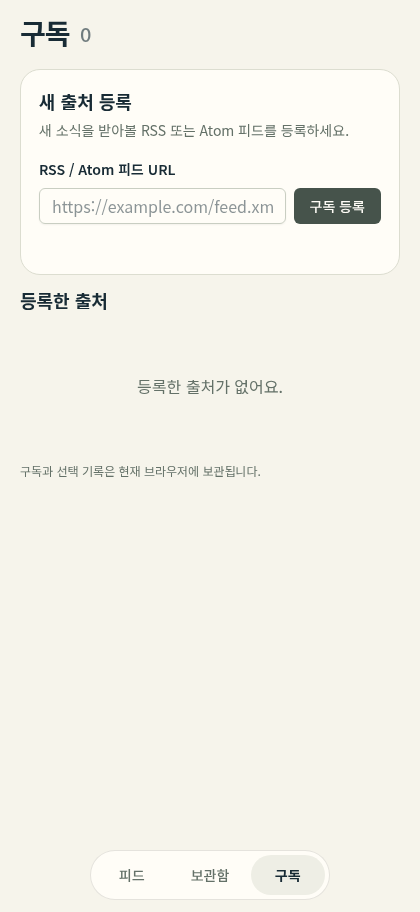
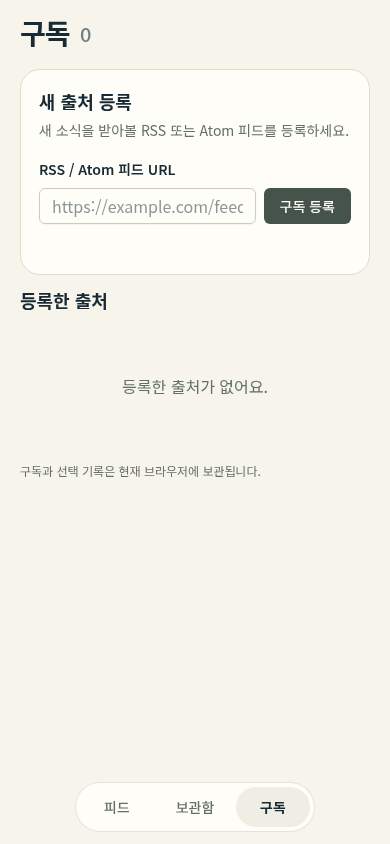
docs: replace stale screenshots with current mobile captures

diff --git a/apps/web/docs/review/issue-2/README.md b/apps/web/docs/review/issue-2/README.md
@@ -1,30 +1,20 @@
-# Issue 2 reader visual review
+# Issue 2 mobile visual review
 
-See the [historical UI design audit](ui-design-audit.md) for the visible UI Tips inventory assessed before the Figma refresh.
+The screenshots below show the current application after the [Figma refresh](https://www.figma.com/design/OoCUpQ24pBnkjYjsEm3vnD/news?node-id=5-2) and mobile-only refinement. Every capture uses a **390×844** viewport at device scale factor 1. The application uses a mobile layout capped at 420px. Feed no longer has a refresh-all control.
 
-Images prefixed `implemented-` show the running application after the [Figma refresh](https://www.figma.com/design/OoCUpQ24pBnkjYjsEm3vnD/news?node-id=5-2). The cream canvas, serif article text, rounded cards, and bottom tabs follow the supplied design. Existing five actions, saved list, and RSS behavior remain unchanged; unsupported library filters and newsletter inbox controls are omitted. Full Noto Sans KR and Noto Serif KR variable fonts are self-hosted with OFL licenses (9.3 MiB combined).
-
-Images prefixed `design-a-` retain the earlier standalone Blue v4 proposal for historical comparison. That proposal was superseded by the supplied Figma design.
-
-The live app screenshots use synthetic Korean stories stored in the browser's `moa-reader-v1` state. Requests to `/api/feed` were intercepted locally and returned a controlled sample error for the failure view. No Gmail account, personal feed, or real subscription was used. The prototype's settings failure and saved states are its own interactive sample data.
-
-Viewports: desktop 1440×1000; reader mobile 390×844; empty settings mobile 420×912. Screenshots were captured with Chromium at device scale factor 1. They show the initial reader, saved content, and settings states without scrolling.
-
-Regression checks also cover long content at 320×740. During a held 120px right drag at 390px, document width remains 390px; removing the clipping class in the browser reproduces 519px document width. Source-region left/right/up drags skip/save/defer at mobile and desktop widths. Emulated touch scrolling moves both title and description independently. Focused text arrow keys leave the queue unchanged; body-level ArrowUp and ArrowRight still defer and save. Physical devices were not tested.
+Captures use synthetic Korean stories in an isolated browser context. Requests to `/api/feed` are intercepted for controlled success/failure states. No Gmail account, personal feed, real subscription, or existing browser storage is used. Fonts finish loading before capture and the development badge is hidden.
 
 ## Current application
 
-- [Reader · desktop](screenshots/implemented-reader-desktop.png)
-- [Reader · mobile](screenshots/implemented-reader-mobile.png)
-- [Saved stories · desktop](screenshots/implemented-saved-desktop.png)
-- [Settings with controlled feed failure · desktop](screenshots/implemented-settings-failure-desktop.png)
-- [Empty settings · mobile](screenshots/implemented-settings-empty-mobile.png)
+- [Feed](screenshots/implemented-reader-mobile.png)
+- [Saved stories](screenshots/implemented-saved-mobile.png)
+- [Subscriptions with controlled feed failure](screenshots/implemented-settings-failure-mobile.png)
+- [Empty subscriptions](screenshots/implemented-settings-empty-mobile.png)
+
+## Verification scope
+
+The refreshed feed capture must contain no `전체 새로고침` control. All four pages must have document width equal to the 390px viewport. Browser emulation does not establish physical-device behavior.
 
 ## Blue v4 design proposal
 
-Historical reference, superseded by Figma.
-
-- [Reader · desktop](screenshots/design-a-reader-desktop.png)
-- [Reader · mobile](screenshots/design-a-reader-mobile.png)
-- [Saved stories · mobile](screenshots/design-a-saved-mobile.png)
-- [Settings with sample failure · mobile](screenshots/design-a-settings-failure-mobile.png)
+The previous Blue proposal was superseded by Figma. Its screenshots and desktop captures are removed from this review. The [historical UI design audit](ui-design-audit.md) remains a snapshot of an earlier commit, not an assessment of the current application.
